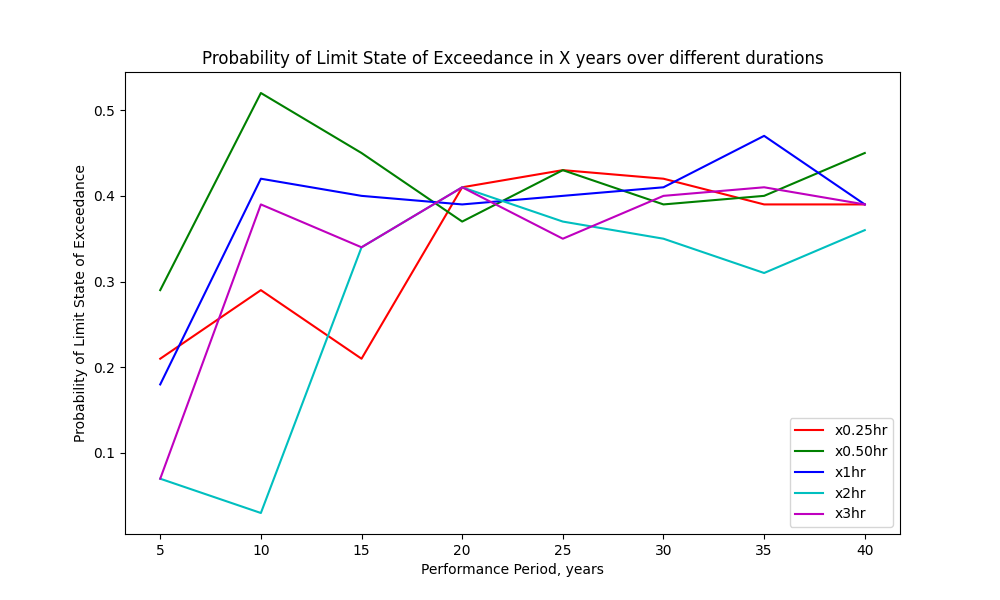
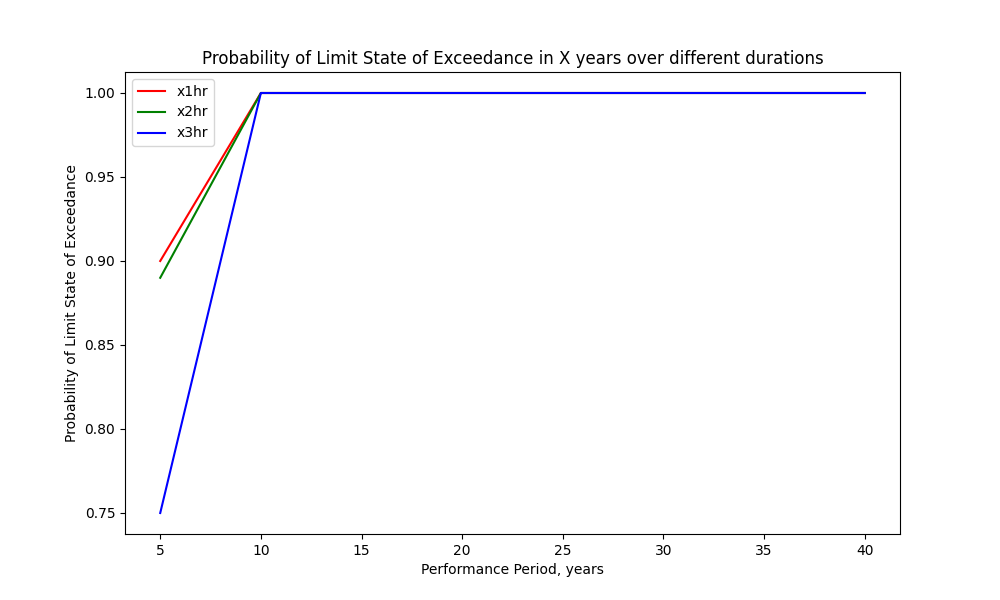
update

diff --git a/studies/reliability/Denver i_mean design performance period fragility risk hazard/Denver risk fit/riskassessment fit mean.py b/studies/reliability/Denver i_mean design performance period fragility risk hazard/Denver risk fit/riskassessment fit mean.py
@@ -10,11 +10,9 @@ from scipy.stats import ecdf
 
 np.random.seed(0)
 # exec(open('/home/devasmit/Desktop/PyPonding/studies/reliability/LAX/hazard/fragility_assessment LAX-2.py').read())
-intensity_data = pd.read_csv(os.path.join(os.getcwd(),'studies/reliability/SB i_mean design performance period fragility risk hazard/final_precipitation_intensity_data.xlsx - Sheet1.csv'));
+intensity_data = pd.read_csv(os.path.join(os.getcwd(),'studies/reliability/Denver i_mean design performance period fragility risk hazard/final_precipitation_intensity_data.xlsx - Sheet1.csv'));
 
 # Extract valid data, removing NaNs
-x_point_25hr = intensity_data['x0.25hr'].dropna()
-x_point_50hr = intensity_data['x0.50hr'].dropna()
 # x_point_75hr = intensity_data['x0.75hr'].dropna()
 x1hr = intensity_data['x1hr'].dropna()
 x2hr = intensity_data['x2hr'].dropna()
@@ -22,19 +20,17 @@ x3hr = intensity_data['x3hr'].dropna()
 
 label = 1976
 
-f1, sorted_data_1 = ecdf(x_point_25hr).cdf.probabilities, np.unique(x_point_25hr)
-f2, sorted_data_2 = ecdf(x_point_50hr).cdf.probabilities, np.unique(x_point_50hr)
 # f3, sorted_data_3 = ecdf(x_point75hr).cdf.probabilities, np.unique(x_point75hr)
 f4, sorted_data_4 = ecdf(x1hr).cdf.probabilities, np.unique(x1hr)
 f5, sorted_data_5 = ecdf(x2hr).cdf.probabilities, np.unique(x2hr)
 f6, sorted_data_6 = ecdf(x3hr).cdf.probabilities, np.unique(x3hr) 
 
 # Define the list of window sizes (moving window sizes)
-window_sizes = [10, 40] # [5, 10, 15, 20, 25, 30, 35, 40] #np.arange(5,41,1)  # Generates values from 1 to 10 with a step size of 1
+window_sizes = [5, 10, 15, 20, 25, 30, 35, 40] # [5, 10, 15, 20, 25, 30, 35, 40] #np.arange(5,41,1)  # Generates values from 1 to 10 with a step size of 1
 line_styles = ['-', '--', ':', '-.', '.-.']  # Different line styles for each window size
 
-# columns = ['x0.25hr', 'x0.50hr', 'x1hr', 'x2hr', 'x3hr']
-columns = ['x0.25hr']
+columns = ['x1hr', 'x2hr', 'x3hr']
+# columns = ['x0.25hr']
 
 # Create an empty DataFrame with the specified rows and columns
 df_collect_pf_exceedance = pd.DataFrame(index=window_sizes, columns=columns)
@@ -44,11 +40,8 @@ colors = ['r', 'g', 'b', 'c', 'm', 'k']  # Red, Green, Blue, Cyan, Magenta, Blac
 
 # Define the function to fit and plot GEV
 def duration_window_wise(window_size, duration):
-    if duration == 'x0.50hr':
-      max_index = len(x_point_50hr)
-      gev_params = []
-    elif duration == 'x0.25hr' or duration == 'x0.75hr':
-      max_index = len(x_point_25hr)
+    if duration == 'x1hr':
+      max_index = len(x1hr)
       gev_params = []
     else:
       max_index = len(x3hr)
@@ -72,14 +65,14 @@ def duration_window_wise(window_size, duration):
     random_samples = np.sort(stats.genextreme.rvs(c=shape, loc=loc, scale=scale, size=num_samples))
     
     Pf = np.zeros(num_samples)
-    threshold_num = np.random.uniform(0, 0.1, num_samples)
+    threshold_num = np.random.uniform(0, 1, num_samples)
     cnt = 0
     for (i, IM) in enumerate(random_samples):
         print(f'Entering IM count: {i} with IM: {IM}')
         # Pf[i] = run_analysis('W14X22',360.0,0.020833333333333332,6.944444444444444e-05, label, IM, duration, window_size)
 
         # Read the CSV file into a DataFrame
-        df = pd.read_csv(f'studies/reliability/SB i_mean design performance period fragility risk hazard/Fragility_fit/mu_sigma_opt_durationwise.csv')
+        df = pd.read_csv(f'studies/reliability/Denver i_mean design performance period fragility risk hazard/Fragility_fit/mu_sigma_opt_durationwise.csv')
         # print(df.values[0])
         # Extract the optimized mu and sigma values for the current duration
         mu_opt = df.values[0][0] #df.loc[df['duration'].str.strip() == duration, 'mu_opt'].values[0]
@@ -116,4 +109,4 @@ plt.xlabel('Performance Period, years')
 plt.ylabel('Probability of Limit State of Exceedance')
 plt.title('Probability of Limit State of Exceedance in X years over different durations')
 plt.legend()
-plt.savefig('studies/reliability/SB i_mean design performance period fragility risk hazard/SB risk fit/Probability_of_limit_state_exceedance_X_years_mean.png')
+plt.savefig('studies/reliability/Denver i_mean design performance period fragility risk hazard/Denver risk fit/Probability_of_limit_state_exceedance_X_years_mean.png')
